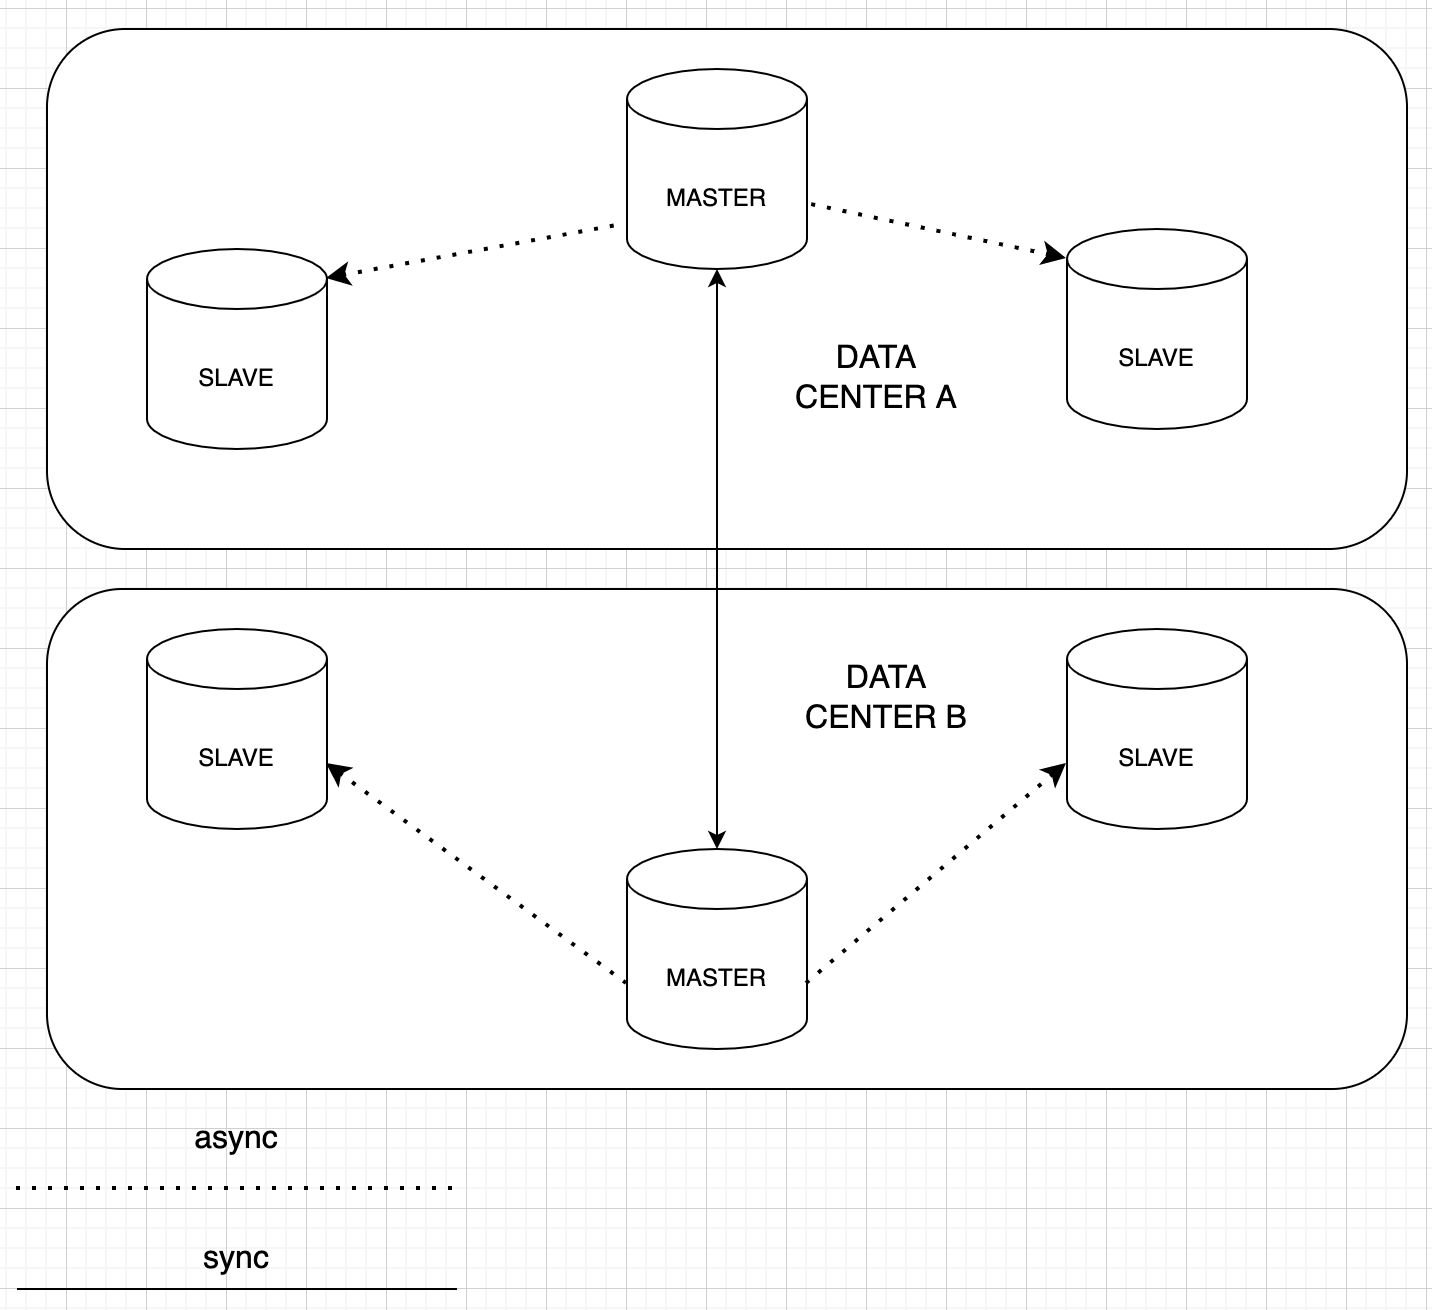
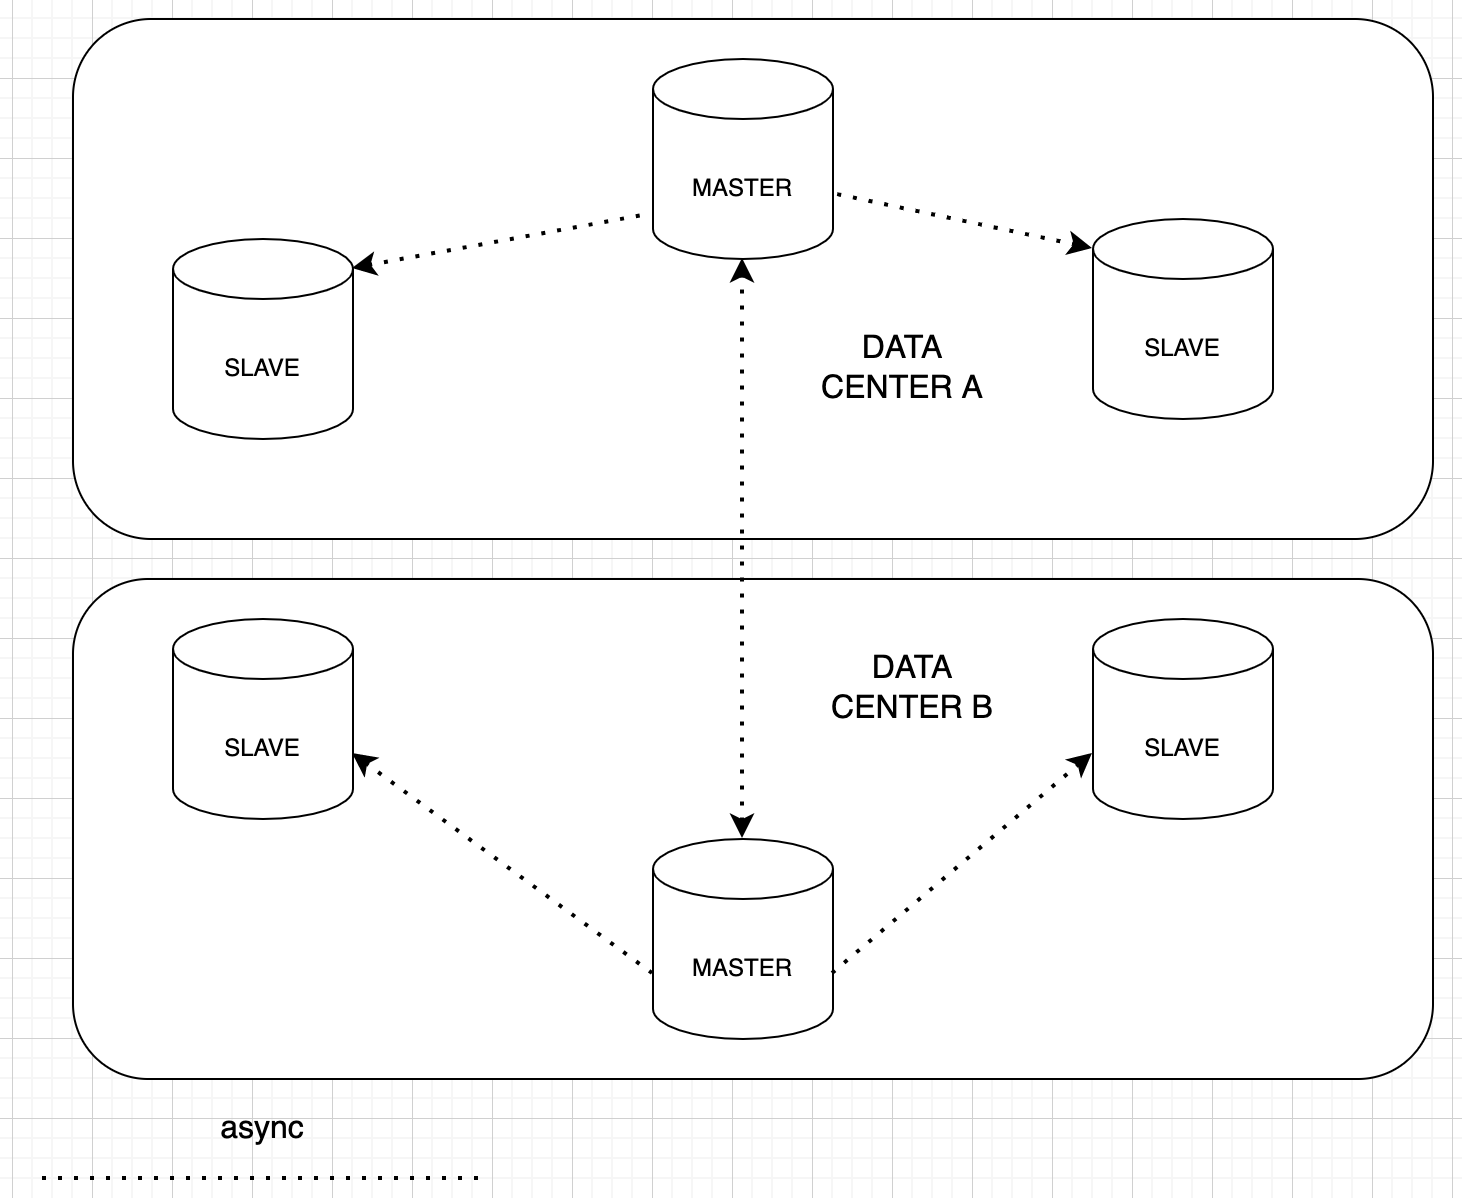
Fixes

diff --git a/README.md b/README.md
@@ -231,13 +231,13 @@ ip-адреса фронтенд серверов записываются в A-
 Для построения правильной схемы хранения данных следует учитывать, что большинство запросов(около 95%) 
 это запросы на чтение данных(открытие календаря, открытие события) и только менее 5% - запросы на запись данных (создание календаря, создание события). Также необходимо учитывать географическое распределение пользователей.
 
-Учитывая эти факторы, можно использовать схему репликации данных **с несколькими ведущими узлами**.В каждом датацентре один сервер выбирается ведущим и два сервера ведомыми. Запросы на создание (календаря, события) будут проходить через ведущий узел, который расположен в локальном датацентре (ближе всего к пользователю). Затем локальный ведущий узел реплицирует данные в синхронном режиме на ведущие узлы других датацентров, а ведущие узлы других датацентров уже в асинхронном режиме передают данные на ведомые сервера. Синхронная репликация между ведущими узлами желательна, чтобы быть уверенным, что данные в ведущих узлах будут согласованными. К тому же нагрузка, созданная запросами на создание событий небольшая (317 RPS), поэтому можно использовать синхронную репликацию. С другой стороны, необязательно, чтобы данные из локального ведущего узла реплицировались синхронно со всеми серверами с БД. Поэтому между ведущими и ведомыми узлами в других датацентрах(всех, кроме того, который использует пользователь, отправивший запрос) данные можно реплицировать уже асинхронно. Это оправдано тем, что в основном участники одного события находятся в пределах одного датацентра, а также тем, время начала события гораздо позже времени создания события, поэтому данные к моменту начала события будут уже согласованы.  
+Учитывая эти факторы, можно использовать схему репликации данных **с несколькими ведущими узлами**. В каждом датацентре один сервер выбирается ведущим и два сервера ведомыми. Запросы на создание (календаря, события) будут проходить через ведущий узел, который расположен в локальном датацентре (ближе всего к пользователю). Затем локальный ведущий узел реплицирует данные в асинхронном режиме на ведущие узлы других датацентров, а ведущие узлы других датацентров передают данные на ведомые сервера. Асинхронная репликация между ведущими узлами датацентров и между ведущим и ведомыми узлами одного датацентра оправдана тем, что время начала события обычно гораздо позже времени создания события, поэтому данные к моменту начала события будут уже согласованы.
 
 Чтение данных производится с ведомых узлов каждого датацентра.   
 
-Базу данных с уведомлениями и напоминаниями (тарантул) реплицировать в другие датацентры не нужно, так как в данном случае тарантул выступает в качестве очереди, и согласованность между данными уведомлений и напоминаний во ввсех датацентрах не нужна.
+Базу данных с уведомлениями и напоминаниями (тарантул) реплицировать в другие датацентры не нужно, так как в данном случае тарантул выступает в качестве очереди, и согласованность между данными уведомлений и напоминаний во всех датацентрах не нужна.
 
-Проблему чтения своих же записей можно решить, заставив пользователя получать данные после обновления с ведущего узла в течение некоторого времени (как только реплики наверстают упущенное можно переключать пользователя на них).
+Проблему чтения своих же записей можно решить следующим образом. Клиент может запоминать время последней операции записи, и  это время будет использоваться для определения актуальной реплики (которая отражает изменения на момент операции записи). То есть если клиент хочет прочитать данные после обновления, его бросает на любую реплику; если она неактуальна -  то можно перебросить клиента на другую реплику, либо подождать пока текущая наверстает изменения.
 
 ![replication](./replication.png)
 
@@ -295,7 +295,7 @@ ip-адреса фронтенд серверов записываются в A-
 **Фронтенд**
 ***NGINX***  
 Nginx позволяет поддерживать 4,830 RPS на одном ядре[6]. Покажем расчет на примере локации Южная Америка. Пусть в этом регионе календарем пользуются `5.4M * 0.156 = 0.82M` пользователей. Пиковый RPS достигается утром в 9-10 часов, когда пользователи смотрят расписание на день: `0.82M * (1 + 1 + 4) / 3600 = 1366 RPS` 
-Итого необходимо: `1366 RPS / 4,830 RPS = 0.28 ядер`. Достаточно одного 1 ядерного сервера в столице Бразилии, так как в столице больше всего пользователей, а всего 33 серверов-реплик для балансировки и отказоустройчивости. 33 сервера, так как нагрузка на 1 сервер составляет 2116 Гбит/с * 15.6 %  = 330 Гбит/с, то есть в одном сервере будет сетевая карта 10 Гбит/с.
+Итого необходимо: `1366 RPS / 4,830 RPS = 0.28 ядер`. Достаточно одного 1 ядерного сервера в столице Бразилии, так как в столице больше всего пользователей, а всего 33 серверов-реплик для балансировки и отказоустройчивости. 33 сервера, так как пиковая нагрузка на регион составляет 2116 Гбит/с * 15.6 %  = 330 Гбит/с (при средней нагрузке около 109 Гбит/с = (7.6М Гбайт/сутки * 8 / (24 * 3600)) * 15.6 %), то есть в одном сервере будет сетевая карта 10 Гбит/с.
 
 |**Локация**       |**Расположение**|**CPU (ядер)** |	**RAM (ГБ)  **|	**Диск(Гб)**|	**Количество**|
 |------------------|----------------|-------------|-----------|----------|------------------|
